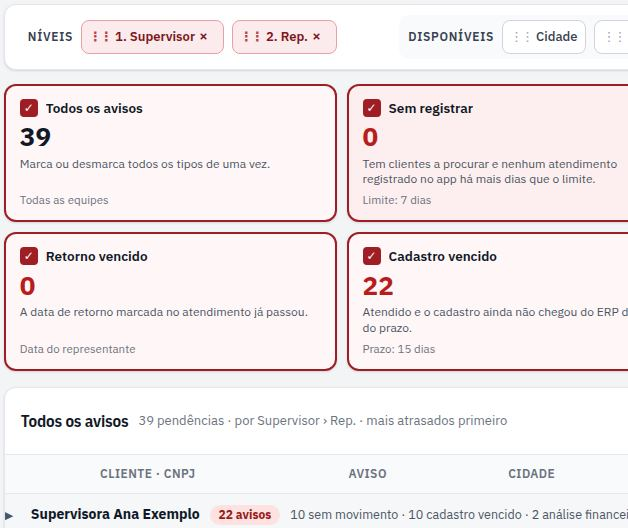
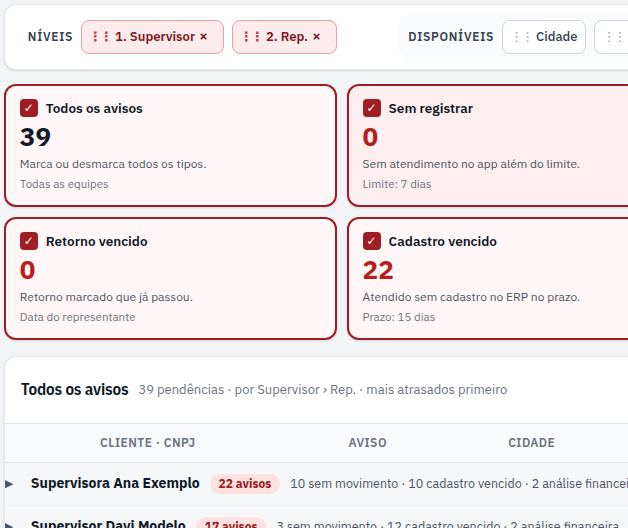
Avisos: frase curta e do mesmo tamanho nos cards
Cada card traz uma frase curta (2 linhas, todas alinhadas); a regra completa
fica na dica do card, na ajuda e no PDF. No sem registrar, a linha da grade
diz "Sem atendimento no app" e o traço da cidade fica centralizado.

diff --git a/web/js/telas/avisos.js b/web/js/telas/avisos.js
@@ -65,13 +65,13 @@ export async function render(conteudo, { usuario }) {
 
   function cards() {
     const todos = estado.tipos.size === TIPOS_AVISO.length;
-    const cartao = ({ id, titulo, numero, regra, param, ligado, cor, onclick }) => h('button', { type: 'button', class: `av-card${ligado ? ' ligado' : ''}`, id: `av-${id}`, 'aria-pressed': ligado ? 'true' : 'false', onclick },
+    const cartao = ({ id, titulo, numero, regra, dica, param, ligado, cor, onclick }) => h('button', { type: 'button', class: `av-card${ligado ? ' ligado' : ''}`, id: `av-${id}`, title: dica ?? regra, 'aria-pressed': ligado ? 'true' : 'false', onclick },
       h('span', { class: 'av-card-topo' }, h('span', { class: 'caixa', 'aria-hidden': 'true' }, ligado ? '✓' : ''), h('span', { class: 'tit' }, titulo)),
       h('b', { class: cor }, n0(numero)), h('span', { class: 'regra' }, regra), h('span', { class: 'param' }, param));
     return h('section', { class: 'av-cards', id: 'av-cards', 'aria-label': 'Tipos de aviso (escolha um ou mais)' },
-      cartao({ id: 'todos', titulo: 'Todos os avisos', numero: cont.total, regra: 'Marca ou desmarca todos os tipos de uma vez.', param: tudo ? 'Todas as equipes' : 'Sua equipe', ligado: todos, cor: '',
+      cartao({ id: 'todos', titulo: 'Todos os avisos', numero: cont.total, regra: 'Marca ou desmarca todos os tipos.', param: tudo ? 'Todas as equipes' : 'Sua equipe', ligado: todos, cor: '',
         onclick: () => { estado.tipos = todos ? new Set() : new Set(TIPOS_AVISO.map((t) => t.id)); desenhar(); } }),
-      TIPOS_AVISO.map((t) => cartao({ id: t.id, titulo: t.curto, numero: cont[t.id], regra: t.regra, param: textoParametro(t.id, parametros), ligado: estado.tipos.has(t.id),
+      TIPOS_AVISO.map((t) => cartao({ id: t.id, titulo: t.curto, numero: cont[t.id], regra: t.card, dica: t.regra, param: textoParametro(t.id, parametros), ligado: estado.tipos.has(t.id),
         cor: t.id === 'parado' ? 'medio' : 'alto',
         onclick: () => { if (estado.tipos.has(t.id)) estado.tipos.delete(t.id); else estado.tipos.add(t.id); desenhar(); } })));
   }
@@ -99,10 +99,10 @@ export async function render(conteudo, { usuario }) {
         ? h('a', { href: `#/carteira?${new URLSearchParams({ vendedorId: a.vendedor_id, ...(a.supervisor_id ? { supervisorId: a.supervisor_id } : {}), ver: '1', de: 'explorar' })}` }, 'Ver carteira')
         : h('a', { href: `#/ficha?id=${a.prospect_id}` }, 'Abrir ficha');
       return h('tr', { class: 'av-item', dados: { tipo: a.tipo } },
-        h('td', { class: 'rz', 'data-r': 'Cliente', style: recuo(l.prof) }, h('b', { class: 'nome', title: doRep ? '' : a.razao_social }, doRep ? 'Nenhum atendimento lançado' : `${a.codigo_cliente_erp ? `${a.codigo_cliente_erp} - ` : ''}${a.razao_social}`),
+        h('td', { class: 'rz', 'data-r': 'Cliente', style: recuo(l.prof) }, h('b', { class: 'nome', title: doRep ? '' : a.razao_social }, doRep ? 'Sem atendimento no app' : `${a.codigo_cliente_erp ? `${a.codigo_cliente_erp} - ` : ''}${a.razao_social}`),
           h('small', {}, sub)),
         h('td', { class: 'cen', 'data-r': 'Aviso' }, h('span', { class: `selo av-tipo ${a.tipo}` }, t.curto)),
-        h('td', { 'data-r': 'Cidade' }, doRep ? '—' : [a.cidade, a.uf].filter(Boolean).join('/')),
+        h('td', { class: doRep ? 'cen' : '', 'data-r': 'Cidade' }, doRep ? '—' : [a.cidade, a.uf].filter(Boolean).join('/')),
         h('td', { class: 'cen', 'data-r': 'Desde' }, a.data_ref ? formatar.data(a.data_ref) : '—', h('small', {}, rotuloDesde(a, parametros))),
         h('td', { class: 'cen', 'data-r': 'Atraso' }, h('span', { class: 'selo erro' }, dias(a))),
         h('td', { class: 'cen', 'data-r': '' }, acao));
